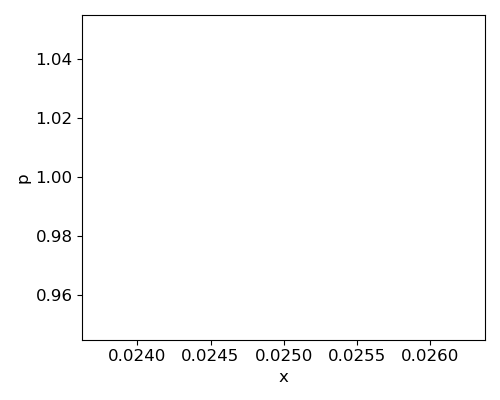
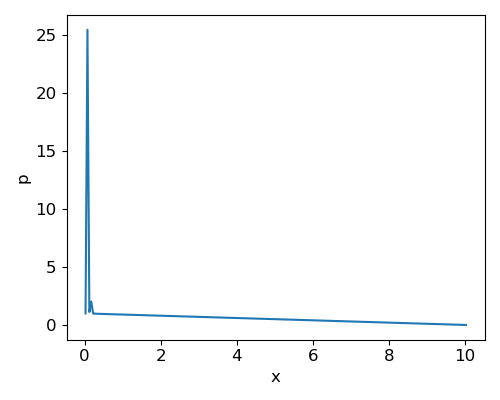
will make a branch here

diff --git a/homework4/channel_flow.py b/homework4/channel_flow.py
@@ -32,7 +32,7 @@ def main():
     
     # Write header to output file
     with open(output_file, 'w') as file_out:
-        file_out.write('trial,Nx,Ny,L,dt,a,Re,plot_x,tf,dx,dy,CFL,MAE,Time\n')
+        file_out.write('trial,Nx,Ny,L,dt,a,Re,plot_x,k,dx,dy,CFL,MAE,Time\n')
     
     for trial, Nx, Ny, L, dt, a, Re, plot_x in zip(trial_ids, Nx_values, Ny_values, L_values, dt_values, a_values, Re_values, plot_x_values):
         # Create grid with ghost cells
@@ -49,56 +49,71 @@ def main():
         # Solve the governing equations using the explicit scheme
         t = 0
         k = 0
+        dt_current = dt
         start_time = time.time()
         while True:
             # Compute spatial derivatives
-            p_x = d_dx(p, dx)
-            u_x = d_dx_upwind(u, dx)
-            v_x = d_dx(v, dx)
+            dE1_dx = d_dx(a**2 * u, dx)
+            dE2_dx = d_dx(p + u**2, dx)
+            dE3_dx = d_dx(u * v, dx)
+            dF1_dy = d_dy(a**2 * v, dy)
+            dF2_dy = d_dy(u * v, dy)
+            dF3_dy = d_dy(p + v**2, dy)
+            d2u_dx2 = d2_dx2(u, dx)
+            d2u_dy2 = d2_dy2(u, dy)
+            d2v_dx2 = d2_dx2(v, dx)
+            d2v_dy2 = d2_dy2(v, dy)
 
-            p_y = d_dy(p, dy)
-            u_y = d_dy(u, dy)
-            v_y = d_dy(v, dy)
+            # Compute CFL-based adaptive dt
+            max_vel = np.max(np.abs(u)) # max(np.max(np.abs(u)), np.max(np.abs(v)))
+            CFL_ac = a * dt_current / np.min([dx, dy])
+            CFL_adv = max_vel * dt_current / np.min([dx, dy])
+            CFL_max = max(CFL_ac, CFL_adv)
+            if not np.isfinite(CFL_max):
+                print(f"Run #{trial}: CFL_max became non-finite (u or p diverged). Stopping.")
+                break
 
-            # Artificial compressibility pressure update
-            dp = -dt * a**2 * (u_x + v_y)
+            # Limit dt to avoid runaway shrinking
+            dt_min = 1e-12
+            if CFL_max > 0.5:
+                dt_current *= 0.5 / CFL_max
+            elif CFL_max < 0.25:
+                dt_current = min(dt, dt_current * 1.1)
+            if dt_current < dt_min:
+                print(f"Run #{trial}: dt dropped below {dt_min:.1e}; stopping to prevent underflow.")
+                break
 
-            # Convective terms (u·∇u, u·∇v)
-            du_conv = u * u_x + v * u_y
-            dv_conv = u * v_x + v * v_y
-
-            # Diffusion terms
-            d2u = d2_dx2(u, dx) + d2_dy2(u, dy)
-            d2v = d2_dx2(v, dx) + d2_dy2(v, dy)
-
-            # Update velocity
-            du = dt * (-(p_x + du_conv) + d2u / Re)
-            dv = dt * (-(p_y + dv_conv) + d2v / Re)
+            # Compute dp, du, dv
+            dp = dt_current * (-dE1_dx - dF1_dy)
+            du = dt_current * (-dE2_dx - dF2_dy + (d2u_dx2 + d2u_dy2) / Re)
+            dv = dt_current * (-dE3_dx - dF3_dy + (d2v_dx2 + d2v_dy2) / Re)
 
             # Update solution fields
             p += dp
             u += du
             v += dv
 
+            # Stop if solution diverged
+            if not np.isfinite(u).all() or not np.isfinite(p).all():
+                print(f"Run #{trial}: solution diverged (NaN/Inf) at k={k}. Stopping.")
+                break
+
             # Apply boundary conditions
             apply_boundary_conditions(p, u, v)
 
-            # Compute mean time-derivative
-            dp_dt = np.mean(np.abs(dp)) / dt
-            du_dt = np.mean(np.abs(du)) / dt
-
-            # Print stability metrics
+            # Compute stability metrics
+            dp_dt = np.mean(np.abs(dp)) / dt_current
+            du_dt = np.mean(np.abs(du)) / dt_current
             Ma = np.max(np.abs(u)) / a
-            CFL_ac = a * dt / np.min([dx, dy])
-            CFL_adv = np.max(np.abs(u)) * dt / np.min([dx, dy])
-            print(f'Run #{trial}: k = {k}, t = {t:.4f}, CFL_adv = {CFL_adv:.4e}, Ma = {Ma:.4e}, |dp/dt| = {dp_dt:.4e}, |du/dt| = {du_dt:.4e}')
+            max_abs_div = np.max(np.abs(dE1_dx + dF1_dy)) / a**2
+            print(f'Run #{trial}: k = {k}, t = {t:.4f}, dt = {dt_current:.4e}, CFL_ac = {CFL_ac:.4e}, CFL_adv = {CFL_adv:.4e}, Ma = {Ma:.4e}, |dp/dt| = {dp_dt:.4e}, |du/dt| = {du_dt:.4e}')
 
             # Break if all residuals are under tolerance, otherwise continue
             tolerance = 1e-4
-            if ((dp_dt < tolerance) and (du_dt < tolerance)) or (k > 1e4):
+            if ((dp_dt < tolerance) and (du_dt < tolerance)) or (k > 1e2):
                 break
 
-            t += dt
+            t += dt_current
             k += 1
         end_time = time.time()
 
@@ -121,7 +136,7 @@ def main():
         # Write results to output file
         CFL = max(CFL_ac, CFL_adv)
         with open(output_file, 'a') as file_out:
-            file_out.write(f"{trial},{Nx},{Ny},{L},{dt},{a},{Re},{plot_x},{t},{dx},{dy},{CFL},{mae},{end_time - start_time}\n")
+            file_out.write(f"{trial},{Nx},{Ny},{L},{dt},{a},{Re},{plot_x},{k},{dx},{dy},{CFL},{mae},{end_time - start_time}\n")
 
     # Save output plots
     figure_velocity.tight_layout()
@@ -150,23 +165,21 @@ def d_dx(f, dx):
 
     return df_dx
 
-
-def d_dx_upwind(f, dx):
-    """First-order upwind derivative in x based on local velocity sign."""
+def d_dx_upwind(f, u, dx):
     df_dx = np.zeros_like(f)
 
+    u_center = u[:, 1:-1]
     f_center = f[:, 1:-1]
     f_left = f[:, :-2]
     f_right = f[:, 2:]
 
     df_dx[:, 1:-1] = np.where(
-        f_center >= 0,
+        u_center >= 0,
         (f_center - f_left) / dx,
         (f_right - f_center) / dx,
     )
 
     return df_dx
-
 
 def d_dy(f, dy):
     df_dy = np.zeros_like(f)
@@ -174,13 +187,27 @@ def d_dy(f, dy):
 
     return df_dy
 
+def d_dy_upwind(f, v, dy):
+    df_dy = np.zeros_like(f)
+
+    v_center = v[1:-1, :]
+    f_center = f[1:-1, :]
+    f_down = f[:-2, :]
+    f_up = f[2:, :]
+
+    df_dy[1:-1, :] = np.where(
+        v_center >= 0,
+        (f_center - f_down) / dy,
+        (f_up - f_center) / dy,
+    )
+
+    return df_dy
 
 def d2_dx2(f, dx):
     d2f_dx2 = np.zeros_like(f)
     d2f_dx2[:, 1:-1] = (f[:, 2:] - 2 * f[:, 1:-1] + f[:, :-2]) / (dx * dx)
 
     return d2f_dx2
-
 
 def d2_dy2(f, dy):
     d2f_dy2 = np.zeros_like(f)
@@ -190,10 +217,11 @@ def d2_dy2(f, dy):
 
 def apply_boundary_conditions(p, u, v, p_inlet=1.0, p_outlet=0.0, u_inlet=1.0, v_inlet=0.0):
     # Apply pressure boundary conditions (constant pressure drop)
-    p[:, 0] = p_inlet
+    # p[:, 0] = p_inlet
     p[:, -1] = p[:, -2]
 
-    # Apply velocity boundary conditions (flat inlet, outflow for u)
+    # Apply velocity boundary conditions
+    # Use Neumann (zero-gradient) at inlet/outlet to avoid forcing divergence
     u[:, 0] = u_inlet
     u[:, -1] = u[:, -2]
 
